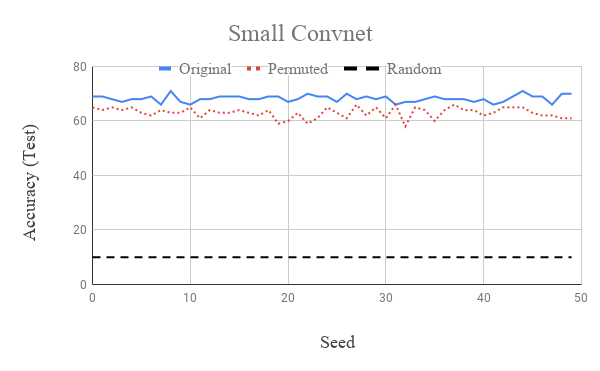
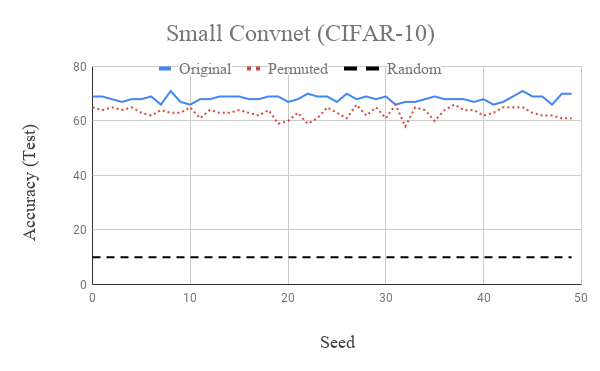
Getting close to finalizing the experiments and results.

Changed region(s): [[0.27, 0.0593, 0.72, 0.1186]]

diff --git a/webpage/index.html b/webpage/index.html
@@ -65,7 +65,7 @@ Combine these two result, we propose a new loss function to stablize the cluster
 <!--to produce a promising image classification on unlabeled data. In this project, we study the result in [1], DeepCluster, which uses the <i>k</i>-means cluster assignments on-->
 <!--convnet features as pseudo-labels to learn the parameters for the convolutional neural network.-->
 
-<h4>What did you try to do? What problem did you try to solve? Articulate your objectives using absolutely no jargon. (5 points)</h4>
+<h4>What did you try to do? What problem did you try to solve? Articulate your objectives using absolutely no jargon. </h4>
 Datasets used in the state-of-the-art neural network training, even ImageNet [2] which contains millions of images, are relatively small as compared to the capacity of the current networks.
 But, building larger labeled datasets for supervised learning requires a tremendous amount of manual work.
 Therefore, a natural way forward is to train on massive unlabeled datasets using unsupervised learning [4].
@@ -82,7 +82,7 @@ We hoped that this would improve the accuracy of models trained using unsupervis
 <!--In this project, we also study the relevance between stability of the correct labels and the behavior of various popular networks.-->
 
 
-<h4>How is it done today, and what are the limits of current practice? (5 points)</h4>
+<h4>How is it done today, and what are the limits of current practice? </h4>
 The unsupervised learning in [1] is done by alternating between the following two steps:
 <ol type="i">
   <li> Output features for all the training images are generated by doing a forward pass through the model. These features are then clustered using <i>k</i>-means clustering algorithm. The cluster assignments are used
@@ -96,7 +96,7 @@ the algorithm can permute the pseudo-labels assigned to images across epochs. Th
 Since the loss function used in [1] is not permutation invariant, we conjectured that if the pseudo-labels are indeed getting permuted then it would lead to the loss of accuracy and also increase the training time of the models.
 
 
-<h4>Who cares? If you are successful, what difference will it make? (5 points)</h4>
+<h4>Who cares? If you are successful, what difference will it make? </h4>
 Our project is aimed at improving the accuracy of the state-of-the-art in unsupervised learning methods. As discussed earlier, the accuracy gap between supervised and unsupervised learning methods
 is hindering widespread acceptance of the unsupervised learning methods. If the work done in this project makes a step towards closing this gap, then that would assist in a move towards using larger
 unlabeled datasets which can utilize current capacity of neural networks.
@@ -106,7 +106,7 @@ Moreover, this would allow existing stable supervised learning networks to be ex
 <br><br>
 <!-- Approach -->
 <h2>Approach</h2>
-<h4>What did you do exactly? How did you solve the problem? Why did you think it would be successful? Is anything new in your approach? (10 points)</h4>
+<h4>What did you do exactly? How did you solve the problem? Why did you think it would be successful? Is anything new in your approach? </h4>
 The purpose of this project was to improve the accuracy of classification achieved in [1]. We believed that this was an attainable objective because of the following two key intuitions about the approach
 used in [1] for training the model: 1) the labels generated by <i>k</i>-means clustering can permute across runs, and 2) permuting the target labels during training will have a detrimental effect on the model.
 Since our claims were based on conjecture, we first had to prove that our intuitions were correct. Therefore, we separated the project into the following three tasks:
@@ -154,15 +154,15 @@ Therefore, we can use some distance measure from the centroids as the loss funct
 <ul>
   <li> <b>Kullback–Leibler divergence</b> loss has been used in some of the previous works [8, 9] for image classification task. For using this loss function, we first convert the output features to probabilities using the softmax function.
     Then, we calculate the centroid for every cluster as the average of the softmax-probabilities for all the images classified in that cluster. Finally, we use KL-divergence between the centroid and the softmax-probabilities for images
-    in the corresponding cluster as a measure of the loss. For prediction we pick the class with highest probability as the predicted label.
+    in the corresponding cluster as a measure of the loss. For prediction, we choose the label of the centroid with minimum KL-divergence from the point as its label.
   <li> <b>L2-distance</b> loss also seems to work well for some unsupervised image classification tasks [10, 11]. Similar to the case of KL-divergence, we calculate the centroids by averaging the outputs of all the images in the clusters.
-    However, unlike KL-divergence, we do not need probabilities for calculating L2-distances therefore softmax function is not used. For prediction we choose the label of nearest centroid as our predicted label.
+    However, unlike KL-divergence, we do not need probabilities for calculating L2-distances therefore softmax function is not used. For prediction, we choose the label of nearest centroid as our predicted label.
 </ul>
 <br>
 The above key intuition has not been used for unsupervised training using <i>k</i>-means clustering. Again, the original paper does not discuss the effect of different loss functions on the accuracy of the network.
 Therefore, we believe that this approach to calculating loss for stabilizing learning is a novel contribution.
 
-<h4>What problems did you anticipate? What problems did you encounter? Did the very first thing you tried work? (5 points)</h4>
+<h4>What problems did you anticipate? What problems did you encounter? Did the very first thing you tried work? </h4>
 The training in [1] took 12 days on a Pascal P100 GPU. Due to the limited time and computing resources, we were not able to complete our experiments on a similar scale as DeepCluster.
 As described in detail in the Experiments section, we instead verified our hypothesis on smaller networks and easier datasets.
 Even though we worked with smaller datasets and networks, we believe our experiments successfully simulates all the problems we want to address.
@@ -178,7 +178,7 @@ We will describe these problems in more detail in the next section.
 <br><br>
 <!-- Results -->
 <h2>Experiments and Results</h2>
-<h4>How did you measure success? What experiments were used? What were the results, both quantitative and qualitative? Did you succeed? Did you fail? Why? (10 points)</h4>
+<h4>How did you measure success? What experiments were used? What were the results, both quantitative and qualitative? Did you succeed? Did you fail? Why? </h4>
 DeepCluster uses a standard AlexNet architecture which consists of five convolutional layers with 96, 256, 383, 384, and 256 filters; and three fully connected layers.
 The original experiments train for 500 epochs on ImageNet, which takes 12 days on a Pascal P100 GPU. Due to the limited time and resources, we scaled down the size of each problem as follows:
 <ul>
@@ -229,7 +229,27 @@ The random permutation of labels was done at every vertical gridline in the plot
 <br>
 It can be observed from the plots that even though the validation accuracy of the network dropped below random guessing, after permutation, it quickly recovers and gets close to the accuracy of the original network within the epoch.
 This was a surprising result for us because we had expected the permutations to significantly impact the network, as discussed earlier.
-Therefore, we further investigated how the weights in different layers of the network changed across epochs. We plotted the relative change in weights across epochs for different layers as shown below.
+Therefore, we wanted to verify that this permutation invariance was not just a property of the smaller convnet for some particular random seeds.
+So, we trained the smaller convnet and our modified version of ResNet using 50 different seeds and noted the final test accuracy with and without permutations. The resulting plots are shown below.
+
+<div class="row" style="text-align: center;">
+  <div class="column">
+    <img style="width:100%" alt="" src="images/convnet_test_acc.png">
+    <figcaption>Fig.3(a): Variation in the test accuracy of Small Convnet on CIFAR-10 </figcaption>
+  </div>
+
+  <div class="column">
+    <img style="width:99%" alt="" src="images/resnet_test_acc.png">
+    <figcaption>Fig.3(b): Variation in the test accuracy of ResNet on CIFAR-10 </figcaption>
+  </div>
+</div>
+<br><br>
+We observed from Fig.3(a) that the test accuracy of the small convnet with and without permutations is almost the same for all the seeds. Further, from the plot shown in Fig.3(b), it was observed that even though ResNet seems
+to be affected by permutations for some seeds, for most of the seeds its accuracy with permutations is quite close to that of the network trained without permutations, too. This seemed to suggest that a hyperparamter search can fix
+the issues caused by permutations in ResNet.
+<br><br>
+Next, we further investigated this non-intuitive permutation invariance property of the networks. We focused on the convnet for the purpose because of its smaller size.
+We tracked how the weights of different layers in the network changed across epochs. We plotted the relative change in weights across epochs for different layers as shown below.
 
 <div class="row" style="text-align: center;">
   <div class="column">
@@ -250,21 +270,23 @@ Therefore, we further investigated how the weights in different layers of the ne
 As expected, the weights of convolutional layers, shown in Fig.4(a), do not change a lot after the first few epochs whereas the weights of the fully connected layers, shown in Fig.4(b) keep changing.
 Further, the magnitude of change in the weights of the fully connected layers is more when the labels are being permuted.
 This led us to conclude that the fully connected layer is learning the permutation quickly, since the total number of permutations is relatively few.
-
-
+Therefore, as the next step, we tried permuting the labels with the CIFAR-100 dataset. However, the smaller convnet did not achieve good accuracy on CIFAR-100 dataset. Therefore, we show the results
+for ResNet and VGG in Fig.5(a) and 5(b) below.
 <div class="row" style="text-align: center;">
   <div class="column">
-    <img style="width:100%" alt="" src="images/convnet_test_acc.png">
-    <figcaption>Fig.4(a): Variation in the test accuracy of Small Convnet </figcaption>
+    <img style="width:100%" alt="" src="images/resnet_test_100.png">
+    <figcaption>Fig.5(a): Variation in the test accuracy of ResNet on CIFAR-100 </figcaption>
   </div>
 
   <div class="column">
-    <img style="width:99%" alt="" src="images/resnet_test_acc.png">
-    <figcaption>Fig.4(b): Variation in the test accuracy of ResNet </figcaption>
+    <img style="width:99%" alt="" src="images/vgg_test_100.png">
+    <figcaption>Fig.5(b): Variation in the test accuracy of VGG on CIFAR-100 </figcaption>
   </div>
 </div>
-<br><br>
-
+<br>
+From the above plots, it can be seen that, for both the networks, the permutation of labels consistently results in a lower test accuracy.
+Therefore, in conclusion, we were able to prove our initial intuition that the permutation of the labels results in lower accuracy.
+Although, in the process, we found out that networks are robust to permutations when the number of classes is small.
 <br><br>
 <h3>References</h3>
 <ol type="1">
@@ -283,13 +305,13 @@ This led us to conclude that the fully connected layer is learning the permutati
 
 <!-- Additional Points to Consider (REMOVE BEFORE SUBMISSION) -->
 <h2> Additional Points to Consider (REMOVE BEFORE SUBMISSION)</h2>
-<h4>Appropriate use of visual aids. Are the ideas presented with appropriate illustration? Is the problem effectively visualized? Is the approach visualized appropriately? Are the results presented clearly; are the important differences illustrated? Every section and idea does not need a visual aid, but the most interesting and complex parts of the project should be illustrated. (5 points)</h4>
+<h4>Appropriate use of visual aids. Are the ideas presented with appropriate illustration? Is the problem effectively visualized? Is the approach visualized appropriately? Are the results presented clearly; are the important differences illustrated? Every section and idea does not need a visual aid, but the most interesting and complex parts of the project should be illustrated. </h4>
 Nemo enim ipsam voluptatem quia voluptas sit aspernatur aut odit aut fugit, sed quia consequuntur magni dolores eos qui ratione voluptatem sequi nesciunt.
 
-<h4>Overall clarity. Is the presentation clear? Can a peer who has also taken Deep Learning understand all of the points addressed above? Is sufficient detail provided? (5 points)</h4>
+<h4>Overall clarity. Is the presentation clear? Can a peer who has also taken Deep Learning understand all of the points addressed above? Is sufficient detail provided? </h4>
 Nemo enim ipsam voluptatem quia voluptas sit aspernatur aut odit aut fugit, sed quia consequuntur magni dolores eos qui ratione voluptatem sequi nesciunt.
 
-<h4>Finally, points will be distributed based on your understanding of how your project relates to Deep Learning. Here are some questions to think about: (10 points)</h4>
+<h4>Finally, points will be distributed based on your understanding of how your project relates to Deep Learning. Here are some questions to think about: </h4>
 <ul>
   <li>What was the structure of your problem? How did the structure of your model reflect the structure of your problem?</li>
   <li>What parts of your model had learned parameters (e.g., convolution layers) and what parts did not (e.g., post-processing classifier probabilities into decisions)?</li>
